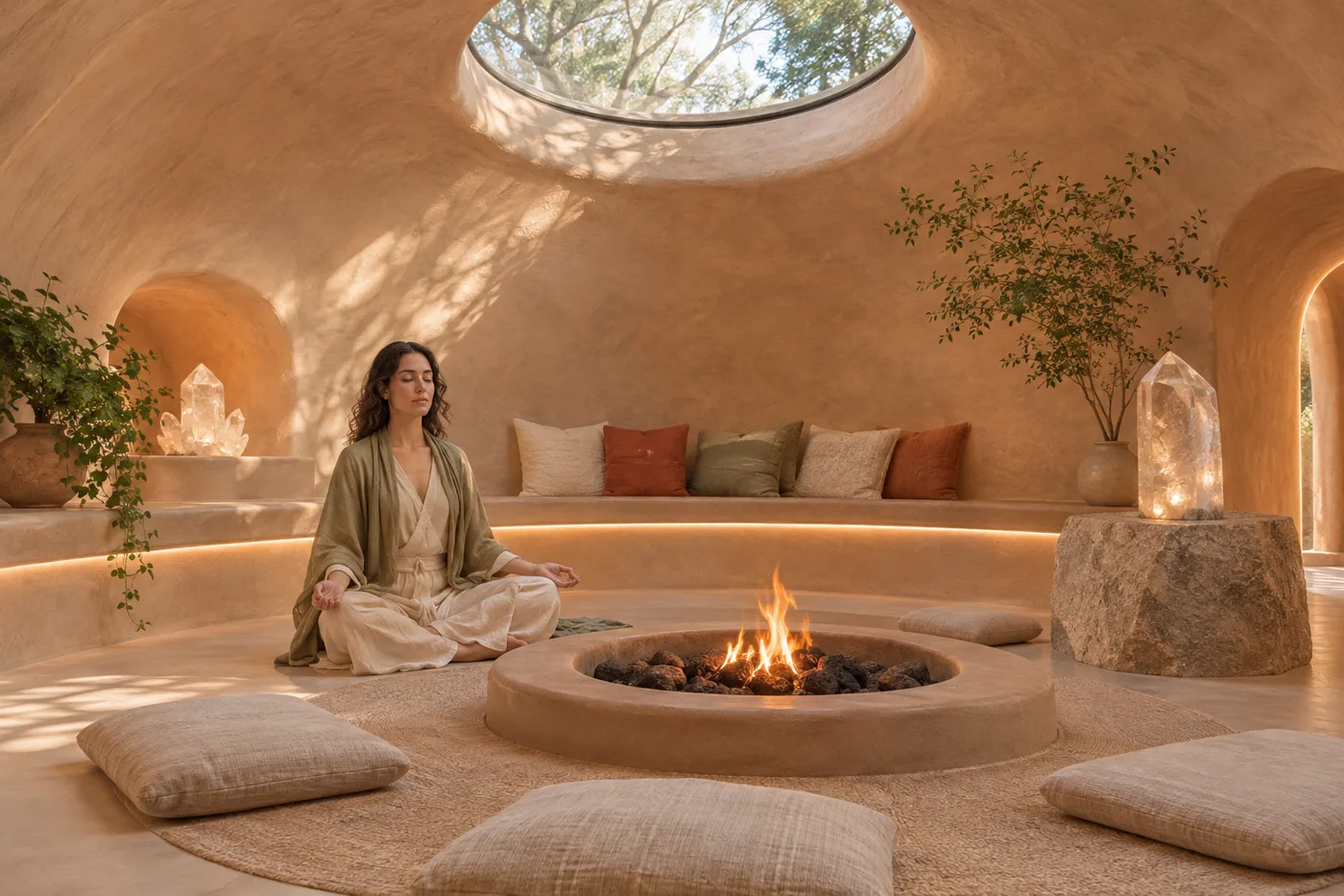
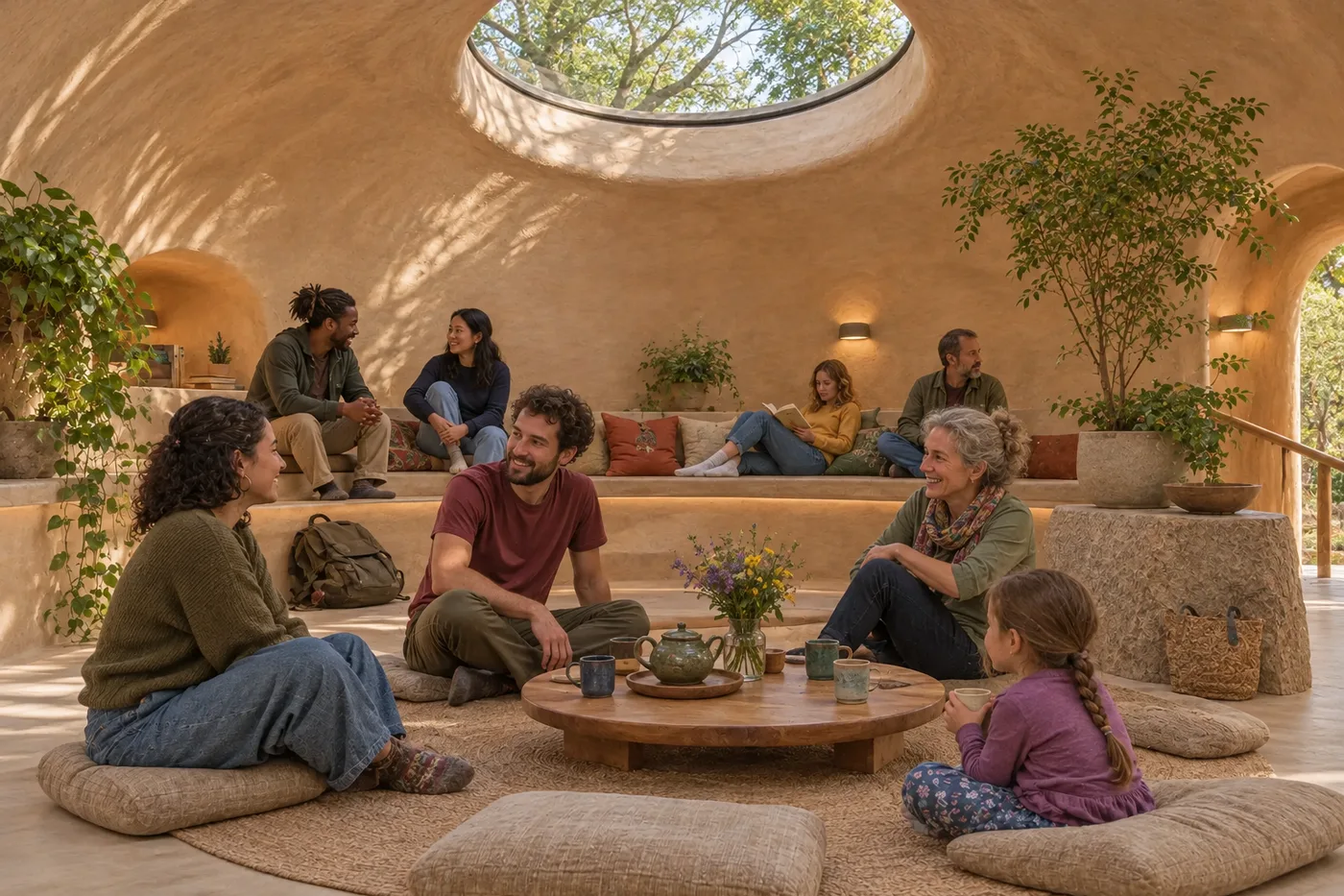
Realistic images, outdoor-only fire, occasional crystals, Light on the Land
- Re-edit 26 photos with a reality check: no indoor fire, one quartz point only,
  everyday clothing, real daylight, no glowing orbs or uplighting
- Add design/light-on-the-land doc: evidence, honest limits, ten commitments
- City page: Light on the Land section; balanced 6-card Beyond the box grid
- Update color, visual language rules and alt texts

diff --git a/website/src/pages/city.tsx b/website/src/pages/city.tsx
@@ -51,7 +51,7 @@ export default function City(): JSX.Element {
         <Feature
           reverse
           img="city-dome-cutaway"
-          alt="Inside a timber gridshell dome: terraced apartments, a garden atrium, tall quartz points on stone pedestals and a sunken fire lounge"
+          alt="Inside a timber gridshell dome: terraced apartments, a garden atrium and a sunken lounge with sofas around a low table"
           kicker="Neighborhood"
           title="Communosphere"
           tag="TRL 7–9"
@@ -61,18 +61,18 @@ export default function City(): JSX.Element {
         </Feature>
         <Feature
           img="city-temple"
-          alt="Circular timber temple with an oculus lighting a single tall quartz point on a round stone pedestal and a fire bowl"
+          alt="Circular timber temple with an oculus lighting a single quartz point on a stone pedestal and a shallow water basin, people seated on cushions"
           kicker="Inner ring"
           title="Temple & plaza"
           tag="TRL 9"
           specs={[['Use', 'Meditation, ceremony, gatherings'], ['Access', 'Open to all, no doctrine'], ['Build', 'Timber, rammed earth, stone'], ['Plaza', 'Markets, festivals, daily life']]}>
-          <p>A non-denominational temple for silence, meditation and community ceremonies, proportioned with sacred geometry, with a single upright quartz point on a stone pedestal under the oculus and a fire bowl for evening gatherings. Participation in any practice is always voluntary.</p>
+          <p>A non-denominational temple for silence, meditation and community ceremonies, proportioned with sacred geometry, with a single upright quartz point on a stone pedestal under the oculus and a shallow water basin at the center. Participation in any practice is always voluntary.</p>
           <p>The plaza beside it is the city's living room: morning markets, performances, seasonal festivals and the everyday crossing point of the whole community.</p>
         </Feature>
         <Feature
           reverse
           img="city-studios"
-          alt="Modern maker studio with a CNC router, 3D printer, woodworking benches and a quartz point on a timber stand"
+          alt="Modern maker studio with a CNC router, 3D printer, woodworking benches and a pottery corner"
           kicker="Middle ring"
           title="Studios & workshops"
           tag="TRL 9"
@@ -142,15 +142,26 @@ export default function City(): JSX.Element {
         <div style={{marginTop: '3rem'}} />
         <Cards items={[
           {title: 'Clay plaster everywhere', kicker: 'Healthy interiors', img: 'form-earth-dome', text: 'Holds indoor humidity steady and removes ozone. The cheapest health upgrade, and it works on curves and in existing homes.'},
-          {title: 'Local stone', kicker: 'Materials follow the place', text: 'Plinths, terrace walls, hearths and paths in the stone of each region: granite and schist in Portugal, sandstone in New Mexico, basalt on volcanic land. Lowest carbon when quarried nearby.'},
+          {title: 'Local stone', kicker: 'Materials follow the place', text: 'Plinths, terrace walls, benches and paths in the stone of each region: granite and schist in Portugal, sandstone in New Mexico, basalt on volcanic land. Lowest carbon when quarried nearby.'},
           {title: 'Thin shells', kicker: 'Canopies & floors', img: 'form-thin-shell', text: 'Arched shells carry load in compression, using over 70% less concrete and allowing earth or recycled mixes.'},
           {title: 'Curved shell, efficient core', kicker: 'Practical', text: 'Kitchens, baths and storage stay straight inside curved rooms, so standard fittings still work and costs stay down.'},
           {title: 'Bio-resonance as research', kicker: 'Frontier', text: 'We will compare matched curved and boxy rooms for sleep, stress and acoustics with university partners, and publish results either way.'},
+          {title: 'Light on the land', kicker: 'Nature first', to: '/docs/design/light-on-the-land', text: 'Compact building, more habitat after than before, our own sun and rain, and dark, bird-safe nights.'},
         ]} />
         <p style={{marginTop: '1.5rem'}}><Link to="/docs/design/organic-forms-and-materials">Read Beyond the Box in the library: methods, costs, evidence and trade-offs →</Link></p>
       </Section>
 
-      <Section alt id="language" eyebrow="Design language" title="Four rules shape every building.">
+      <Section id="light-on-the-land" alt eyebrow="Light on the land" title="Mostly wild land, measured every year." lead="Zero impact is not possible, but half a normal footprint is: ecovillages like Findhorn and Sieben Linden already live at about half their national averages. We build a compact core, run on our own sun and rain, protect the night and leave more nature than we found.">
+        <Cards items={[
+          {title: 'Build small', kicker: 'Land', text: 'A 20–30 acre core on a 100–500 acre site. At least half the land stays permanent habitat, with wildlife corridors kept open.'},
+          {title: 'More life after', kicker: 'Biodiversity', text: 'A baseline survey before design and at least 20% biodiversity net gain, monitored for 30 years.'},
+          {title: 'Own sun and rain', kicker: 'Energy & water', text: 'No fossil fuels, 105% of energy from on-site solar, and no net draw on groundwater. Greywater is cleaned in planted wetlands.'},
+          {title: 'Protect the night', kicker: 'Light & birds', text: 'Shielded, warm outdoor lights that never shine upward, and bird-safe patterned glass on every dome.'},
+        ]} />
+        <p style={{marginTop: '1.5rem'}}><Link to="/docs/design/light-on-the-land">Read Light on the Land: what is possible today, honest limits and ten commitments →</Link></p>
+      </Section>
+
+      <Section id="language" eyebrow="Design language" title="Four rules shape every building.">
         <Cards items={[
           {title: 'Sacred geometry', kicker: 'Proportion', text: 'Circles, spirals and the golden ratio set the plan, room proportions and facade rhythms, giving the city a coherent, calming order.'},
           {title: 'Biophilic design', kicker: 'Nature', text: 'Daylight, planting, natural materials and views to green in every space. Proven to lower stress and improve wellbeing.'},
@@ -159,7 +170,7 @@ export default function City(): JSX.Element {
         ]} />
       </Section>
 
-      <Section eyebrow="Go deeper" title="The city in the library.">
+      <Section alt eyebrow="Go deeper" title="The city in the library.">
         <DocLinks items={[
           {to: '/docs/design/architecture', tag: 'City', title: 'Architecture', text: 'Ring layout, building types and construction approach.'},
           {to: '/docs/concepts/communospheres', tag: 'City', title: 'Communospheres', text: 'Dome neighborhoods in detail.'},

diff --git a/website/src/pages/homes.tsx b/website/src/pages/homes.tsx
@@ -33,11 +33,11 @@ export default function Homes(): JSX.Element {
       <Section alt id="types" eyebrow="Home types" title="Choose the scale of private life you need.">
         <Feature
           img="home-tiny"
-          alt="Four curved-timber tiny homes with green roofs and large windows around a courtyard garden with a sunken fire circle and a vertical quartz point set on a stone base, a glass dome behind"
+          alt="Four curved-timber tiny homes with green roofs and large windows around a courtyard garden with stone seating and planted beds, a glass dome behind"
           kicker="Tiny home · 200–300 sf"
           title="Tiny home"
           tag="$500–700 / month">
-          <p>A self-contained curved-timber home with a sleeping niche, a compact kitchen and bath, big windows and a deck. Tiny homes are grouped in fours around a shared courtyard with planted beds, a sunken fire circle and a single quartz point on a stone base, so neighbors share outdoor space naturally.</p>
+          <p>A self-contained curved-timber home with a sleeping niche, a compact kitchen and bath, big windows and a deck. Tiny homes are grouped in fours around a shared courtyard with planted beds and stone seating, so neighbors share outdoor space naturally.</p>
           <ul>
             <li><strong>Best for:</strong> singles, artists, newcomers and contribution-based residents</li>
             <li><strong>Where:</strong> garden clusters on the outer ring, a short walk from a communosphere</li>
@@ -60,7 +60,7 @@ export default function Homes(): JSX.Element {
         </Feature>
         <Feature
           img="home-1br"
-          alt="Modern one-bedroom with a stone counter, a fireplace and glass walls onto a dome garden"
+          alt="Modern one-bedroom with a stone counter, built-in shelves and glass walls onto a dome garden"
           kicker="1-bedroom · 600–800 sf"
           title="One-bedroom"
           tag="$950–1,300 / month">
@@ -74,7 +74,7 @@ export default function Homes(): JSX.Element {
         <Feature
           reverse
           img="home-2br"
-          alt="Curved timber family homes with green roofs along a car-free lane with e-bikes and a fire circle, a spire and dome beyond"
+          alt="Curved timber family homes with green roofs along a car-free lane with e-bikes, cyclists and neighbors on benches, a spire and dome beyond"
           kicker="2-bedroom · 900–1,200 sf"
           title="Two-bedroom family home"
           tag="$1,300–1,700 / month">
@@ -91,7 +91,7 @@ export default function Homes(): JSX.Element {
       <Section id="earth" eyebrow="Beyond the box" title="Earth tiny homes: built from the ground they stand on." lead="An option for the tiny-home clusters: small curved homes of earthbag (superadobe) or 3D-printed local soil, finished in clay plaster. Lower cost, healthier air and a quiet, rounded shape.">
         <Feature
           img="form-superadobe"
-          alt="A cluster of small superadobe earth domes with sand-colored clay plaster, round windows and planted roofs around a courtyard garden with a sunken fire circle"
+          alt="A cluster of small superadobe earth domes with sand-colored clay plaster, round windows and planted roofs around a courtyard garden with a small outdoor fire pit"
           kicker="Earth option · tiny home"
           title="Superadobe and printed-earth clusters"
           tag="Dry and mild climates first">
@@ -104,7 +104,7 @@ export default function Homes(): JSX.Element {
         <Feature
           reverse
           img="form-earth-dome"
-          alt="Inside an earth dome: smooth clay-plastered walls, a skylight oculus, a built-in bench and a central fire bowl"
+          alt="Inside an earth dome: smooth clay-plastered walls, a skylight oculus, a built-in bench and a low wooden tea table where people sit together"
           kicker="Inside · build together"
           title="Clay interiors, built with residents"
           tag="Pilot in Stage 4">

diff --git a/website/src/pages/journey.tsx b/website/src/pages/journey.tsx
@@ -26,7 +26,7 @@ export default function Journey(): JSX.Element {
         <Feature
           id="awakening"
           img="journey-awakening"
-          alt="A person in a cotton knit reflecting by a city apartment window at dawn, a small quartz point on a stand and tea beside her"
+          alt="A person in a cotton knit reflecting by a city apartment window at dawn, a cup of tea and a notebook beside her"
           kicker="Movement 1 · Now – 2027 · Stages 1–3"
           title="Awakening"
           tag="From distraction to attention"
@@ -38,7 +38,7 @@ export default function Journey(): JSX.Element {
           reverse
           id="gathering"
           img="journey-gathering"
-          alt="A circle of people in linen and cotton around a stone fire bowl at a modern retreat pavilion"
+          alt="A circle of people in everyday clothes around an outdoor stone fire pit beside a modern retreat pavilion at dusk"
           kicker="Movement 2 · 2027 – 2028 · Stage 4"
           title="Gathering"
           tag="From me to we"
@@ -61,7 +61,7 @@ export default function Journey(): JSX.Element {
           reverse
           id="flourishing"
           img="journey-flourishing"
-          alt="A shared dinner at long timber tables inside a glass dome, a fire hearth and a quartz point on a stone pedestal nearby"
+          alt="A shared dinner at long timber tables inside a glass dome under warm pendant lamps"
           kicker="Movement 4 · 2032+ · Stage 6"
           title="Flourishing"
           tag="From survival to contribution"
@@ -72,7 +72,7 @@ export default function Journey(): JSX.Element {
         <Feature
           id="radiating"
           img="journey-radiating"
-          alt="A mature modern organic town of domes and green roofs with a glowing spire at sunset"
+          alt="A mature modern organic town of domes and green roofs with a slender spire at sunset"
           kicker="Movement 5 · 2035+ · Phases 2–3"
           title="Radiating"
           tag="From one place to a pattern"

diff --git a/website/src/pages/index.tsx b/website/src/pages/index.tsx
@@ -149,7 +149,7 @@ export default function Home(): JSX.Element {
 
       {/* IMAGE BAND */}
       <section className="band">
-        <img src={img('dome-interior')} alt="Sunlight streams through a timber gridshell dome over trees, a reflecting pool, a single vertical quartz point on a stone pedestal and a sunken fire circle where people gather" width="1400" height="788" loading="lazy" />
+        <img src={img('dome-interior')} alt="Sunlight streams through a timber gridshell dome over trees, a sunken seating circle around a stone water basin where people gather" width="1400" height="788" loading="lazy" />
         <div className="band-in wrap">
           <blockquote>Ambitious in form.<br />Conservative in engineering.</blockquote>
           <p>Every structure uses materials already standing elsewhere — from Norway's 85.4 m Mjøstårnet timber tower to timber gridshells, earth domes and 3D-printed homes of local soil.</p>
@@ -219,7 +219,7 @@ export default function Home(): JSX.Element {
       <section className="living" id="living">
         <div className="wrap living-grid">
           <figure className="living-art">
-            <img src={img('living')} alt="Residents in linen walk a garden path between curved timber homes with green roofs, a fire circle and a glass dome at golden hour" width="1400" height="933" loading="lazy" />
+            <img src={img('living')} alt="Residents in everyday clothes walk a garden path between curved timber homes with green roofs and a glass dome in morning light" width="1400" height="933" loading="lazy" />
           </figure>
           <div>
             <p className="eyebrow">05 — Living</p>

diff --git a/website/src/components/Home/initHome.ts b/website/src/components/Home/initHome.ts
@@ -201,6 +201,7 @@ const DOCS = [
   ['concepts/energy-systems', 'Concepts', 'Energy systems', 'Solar microgrid plus the subtle-energy research track.'],
   ['design/architecture', 'Design', 'Architecture', 'Spire, domes, rings — archetype vs. Earth build.'],
   ['design/organic-forms-and-materials', 'Design', 'Beyond the box', 'Curved forms and healthy, low-cost materials, with costs.'],
+  ['design/light-on-the-land', 'Design', 'Light on the land', 'Minimal impact on nature: what is possible today, ten commitments.'],
   ['design/layout-diagrams', 'Design', 'Layout & diagrams', 'City plan, cross-sections and energy flows.'],
   ['design/visual-language', 'Design', 'Visual language', 'Symbols, forms and the look of the city.'],
   ['design/color-and-light', 'Design', 'Color & light', 'How light shapes every space and ritual.'],

diff --git a/website/src/components/Site/site.css b/website/src/components/Site/site.css
@@ -42,6 +42,7 @@
 
 /* cards */
 .lc-page .pg-cards{display:grid;grid-template-columns:repeat(auto-fit,minmax(260px,1fr));gap:var(--space-6)}
+.lc-page .pg-cards:has(> :nth-child(6):last-child){grid-template-columns:repeat(auto-fit,minmax(300px,1fr))}
 .lc-page .pg-card{background:var(--card);border:1px solid var(--line);border-radius:var(--r-lg);overflow:hidden;display:flex;flex-direction:column;transition:transform .4s var(--ease),box-shadow .4s var(--ease)}
 .lc-page .pg-card:hover{transform:translateY(-4px);box-shadow:0 24px 50px -30px rgba(29,26,21,.45)}
 .lc-page .pg-card img{width:100%;aspect-ratio:3/2;object-fit:cover}

diff --git a/website/sidebars.ts b/website/sidebars.ts
@@ -28,6 +28,7 @@ const sidebars: SidebarsConfig = {
       items: [
         'design/architecture',
         'design/organic-forms-and-materials',
+        'design/light-on-the-land',
         'concepts/communospheres',
         'concepts/sacred-geometry',
         'design/visual-language',

diff --git a/website/docs/design/light-on-the-land.md b/website/docs/design/light-on-the-land.md
@@ -1,0 +1,86 @@
+---
+id: light-on-the-land
+title: "Light on the Land: Minimal Impact on Nature"
+sidebar_label: Light on the land
+description: How Light City can keep its impact on nature as low as today's proven technology allows, what existing ecovillages and Living Buildings have achieved, the honest limits, and the ten commitments we will measure and publish.
+---
+
+# Light on the Land: Minimal Impact on Nature
+
+A new settlement always changes the land it sits on. Zero impact is not possible: we will clear some ground, use some materials and bring people who eat, travel and buy things. What *is* possible today is a city that takes much less than a normal town, gives some of it back, and proves it with published measurements. This page sets out what proven technology can do, what real projects have already achieved, where the hard limits are, and the commitments Light City will hold itself to.
+
+> **Our rule: the land stays mostly wild.** Build small and compact, power and water ourselves, protect the night, and leave the site with more life on it than we found.
+
+---
+
+## Is it really possible? What has already been done
+
+These are not concepts. Each one has been built, measured and independently reported.
+
+| Project | What it achieved | Source |
+|---|---|---|
+| **Findhorn Ecovillage**, Scotland | Residents' ecological footprint of 2.71 global hectares per person, about half the UK average of 5.4, the lowest then measured for any community in the industrialised world | [Findhorn footprint report, 2006](https://base.socioeco.org/docs/ff_20footprint.pdf) |
+| **Sieben Linden Ecovillage**, Germany | 5.0 t CO₂ per person per year, 52% below the German average of 10.5 t; housing about 0.3 t versus 2.8 t | [Sieben Linden, 2026](https://siebenlinden.org/de/oekologischer-fussabdruck/) |
+| **Sieben Linden straw-bale homes** | Heating use cut by 90% and per-person CO₂ by 72% versus the German average | [World Habitat](https://world-habitat.org/awards/winners/straw-bale-housing-in-the-sieben-linden-ecovillage/) |
+| **Kendeda Building**, Georgia Tech, USA | Certified Living Building: net-positive energy and water over a full year, rainwater for drinking, greywater treated in a constructed wetland, composting toilets | [Georgia Tech](https://livingbuilding.gatech.edu/) |
+| **Agrivoltaic farms**, USA | Sheep graze under solar panels and gain weight like open-pasture sheep; pollinator plantings at solar sites drew about four times as many pollinator visits | [NLR](https://www.nlr.gov/solar/market-research-analysis/agrivoltaics), [USDA Climate Hubs](https://www.climatehubs.usda.gov/hubs/northwest/topic/agrivoltaics-pairing-solar-power-and-agriculture-northwest) |
+| **England's biodiversity law** | Since February 2024, most new developments must leave at least 10% more habitat value than before, measured with a statutory metric and maintained for 30 years | [GOV.UK](https://www.gov.uk/guidance/understanding-biodiversity-net-gain) |
+
+**What this tells us.** A community of a few hundred people, living in well-insulated homes, eating mostly local and plant-forward food and sharing cars and tools, can run at roughly half a normal footprint with technology that exists now. Buildings can produce more energy and water than they use. New development can leave more nature behind, not less.
+
+**The honest part.** Even Sieben Linden says its 5 tonnes per person is still about five times the planet's fair share ([Sieben Linden](https://siebenlinden.org/de/oekologischer-fussabdruck/)). Findhorn's headline figure left out guests' flights to its courses ([Findhorn footprint report](https://base.socioeco.org/docs/ff_20footprint.pdf)). Lifestyle and travel matter as much as buildings, and we will count both.
+
+---
+
+## Where a Light City has real impact, and what to do about it
+
+| Impact | Why it matters | What we do | Readiness |
+|---|---|---|---|
+| **Land taken** | Every building and road replaces habitat | Compact core of 20–30 acres for Phase 1 on a 100–500 acre site; build on already farmed or degraded ground, never old forest or wetland; keep at least half the site as permanent habitat | **Proven** (planning choice) |
+| **Biodiversity** | Fragmented, sprayed land loses species | Baseline ecological survey before design; wildlife corridors kept open between habitat patches; native planting; no pesticides; aim for at least 20% biodiversity net gain using a recognised metric | **Proven** method, needs ecologists |
+| **Energy** | Fossil fuel is the largest climate impact | All-electric, no combustion fuels; rooftop solar plus agrivoltaic fields with grazing and pollinator meadows; batteries; aim for 105% or more of annual use, the Living Building threshold | **Proven** |
+| **Water** | Arid sites can drain aquifers | Rainwater harvesting, low-flow fixtures, greywater reuse through constructed wetlands, composting or vacuum toilets; no net drawdown of groundwater | **Proven**, but permits for drinking rainwater vary by country |
+| **Materials and carbon** | Concrete, steel and glass carry heavy embodied carbon | Local stone, earth, timber and bamboo; minimal concrete; measure embodied carbon for every building and publish it (see [Beyond the Box](/docs/design/organic-forms-and-materials)) | **Proven** to Emerging |
+| **Night light** | Artificial light at night disrupts birds, bats, insects and sleep | Outdoor lights shielded and pointed down, warm color (3000 K or warmer), dimmed or off when not needed, no uplighting of the spire or domes; work toward International Dark Sky Community status | **Proven** ([DarkSky](https://darksky.org/what-we-do/international-dark-sky-places/apply/)) |
+| **Glass and birds** | Glass kills up to a billion birds a year in North America, mostly on low buildings | Bird-safe fritted or UV-patterned glass on all domes and large windows, following the 2 by 4 inch spacing rule; overhangs and screens | **Proven** ([USFWS](https://www.fws.gov/story/federal-agencies-treating-glass-reduce-bird-collisions)) |
+| **Cars and roads** | Roads split habitat and bring noise and runoff | Car-free core; shared electric vehicles parked at the edge; walking and cycling paths of permeable surfaces | **Proven** |
+| **Waste** | Landfill and sewage leave the site | Composting, repair and sharing culture, construction waste sorted and reused; sewage treated on site as a resource | **Proven** |
+| **Construction itself** | Grading, compaction and erosion damage soil for decades | Save and replace topsoil; minimal grading; fence off trees and streams during works; restore disturbed areas in the next planting season | **Proven** |
+
+---
+
+## What this means for the design and the images
+
+Some of our earlier imagery showed things that would *increase* impact, and we are correcting them:
+
+- **Glass domes.** Large glass areas risk bird strikes, overheating and high energy use. Domes need bird-safe patterned glass, shading, operable vents and a limited glass-to-solid ratio. Solid green-roofed sections are as important as glazed ones.
+- **Night lighting.** A city that glows at night harms wildlife and hides the stars. The "light" in Light City is inside: daylight, warm rooms and people. Outdoors after dark it should look like a quiet village, not a stage set.
+- **Fire.** Open fire indoors is a health and fire-code problem and burns fuel. Indoor gathering rooms use daylight, warm lamps and water features. Fire stays outdoors, small and occasional.
+- **Landscape.** Most of what you see around the buildings should be wild meadow, forest, farms and water, not lawns and paving.
+
+---
+
+## Ten commitments we will measure and publish
+
+1. **Build small.** Developed area stays at or under 15% of the site; at least 50% is placed under a permanent conservation agreement.
+2. **More life after than before.** At least 20% biodiversity net gain against a pre-construction baseline, monitored for 30 years.
+3. **Net-positive energy.** 105% or more of annual energy from on-site renewables, with no fossil combustion.
+4. **Live within the rain.** No net groundwater drawdown; water reused at least once before it returns to the land.
+5. **Count the carbon in buildings.** Embodied carbon measured and published for every building, with a falling target each phase.
+6. **Protect the night.** DarkSky-compliant outdoor lighting from day one.
+7. **Safe glass.** Bird-safe glass on every dome and large window.
+8. **A car-free core.** Shared electric vehicles at the edge only.
+9. **Half the footprint.** Residents' average carbon footprint at or below half the national average of the host country by the third year of occupancy, including travel.
+10. **Show the numbers.** An annual, independently reviewed impact report, published whether the results are good or bad.
+
+These targets will be tested during Stage 2 (Design) against the chosen site's climate, ecology and laws, and tightened where possible.
+
+---
+
+## Related
+
+- [Beyond the Box](/docs/design/organic-forms-and-materials): materials, stone and building methods
+- [Site Locations](/docs/project/site-locations): candidate regions and their water and climate
+- [Energy systems](/docs/concepts/energy-systems): the solar microgrid
+- [Color and light](/docs/design/color-and-light): lighting principles
+- [Open Questions](/docs/research/open-questions): what we still need to learn

diff --git a/website/docs/design/color-and-light.md b/website/docs/design/color-and-light.md
@@ -2,9 +2,9 @@
 
 *Palette and lighting rules for the website, diagrams, photos and the built city*
 
-![Dome interior at dusk: warm LED light, clay walls, a fire bowl and a single quartz point on a stone pedestal](/img/home/dome-interior.webp)
+![Dome interior at dusk: warm LED light, clay walls, a stone water basin and planting](/img/home/dome-interior.webp)
 
-*Modern Organic light: warm integrated LED, daylight through glass, clay and timber surfaces, and a place for fire.*
+*Modern Organic light: daylight through glass, warm shielded lamps, clay and timber surfaces.*
 
 ## Palette
 
@@ -40,11 +40,12 @@ Use light tints (about 15–30% opacity) of the nature accents for panel fills. 
 
 - **Daylight first.** Domes and studios are planned for daylight through glazing and an oculus; artificial light fills in.
 - **Warm and circadian.** Evening light is warm (2,200–3,000 K) and dimmable; daytime light can be cooler. Integrated LED lines sit in timber ribs and coves, not bare fixtures.
-- **Fire stays.** Fire bowls, hearths and sculptural fire features are part of shared spaces, indoors and out, with proper ventilation.
+- **Fire stays outdoors.** No open fire indoors: it is a health, fire-code and fuel problem. Indoor gathering spaces use daylight, warm lamps and water. Outdoor fire pits appear occasionally, small and modest.
 - **Crystal as accent.** Quartz and glass catch and split light in small doses: a centerpiece, a window, a lamp. Never a whole wall of crystal.
-- **Crystals are placed, not scattered.** Show natural quartz as one, two or three vertical points, set with intention into the ground on a stone or earth base, or on a simple pedestal or stand. No clusters shooting in every direction and no glowing, game-style crystals.
+- **Crystals are occasional.** Most images show none. Where one appears (the temple, a home shelf), show natural quartz as one, two or three vertical points, set with intention into the ground on a stone or earth base, or on a simple pedestal or stand. No clusters shooting in every direction and no glowing, game-style crystals.
 - **Dark skies.** Exterior light points down, is shielded and is warm, so stars stay visible.
-- **Spire light.** The spire crown can carry programmable light for gatherings; it stays off or low on ordinary nights.
+- **Spire light.** The spire crown can carry programmable light for gatherings; it stays off or low on ordinary nights and never shines upward.
+- **Protect the night.** Outdoor lights are shielded, aimed down, 3000 K or warmer and dimmed when not needed, following [DarkSky](https://darksky.org/what-we-do/international-dark-sky-places/apply/) guidance. No glowing ground orbs, rows of candles or uplit domes. See [Light on the land](/docs/design/light-on-the-land).
 
 ## Usage guidance
 

diff --git a/website/docs/design/visual-language.md b/website/docs/design/visual-language.md
@@ -22,11 +22,12 @@ This guide keeps every Light City image, diagram and page consistent and readabl
 
 Use this style note at the end of every image prompt:
 
-> Curved glulam and CLT, timber gridshells, glass, living walls, rammed earth and clay plaster, warm integrated LED, quartz crystal accents (one to three vertical points on a pedestal or set into the ground, never game-style clusters), local stone, sculptural fire features. People in linen, cotton and raw silk in off-white, sand, sage and terracotta. Realistic documentary photo with a quiet sense of wonder. No text or logos. Avoid medieval, rustic cabins and fantasy.
+> Curved glulam and CLT, timber gridshells, glass, living walls, rammed earth and clay plaster, warm shielded lighting, local stone, and only occasionally a single vertical quartz point on a pedestal. People in ordinary, varied everyday clothing of many colors. Mixed daylight and weather, not always sunset. Realistic documentary photo of a place that could be built today. No text or logos. Avoid medieval, rustic cabins and fantasy.
 
 - **Scale.** Domes 30–45 m across, 3–5 levels; the spire is slender, not a skyscraper.
 - **People.** Diverse ages and backgrounds, doing ordinary things: cooking, working, building, resting.
 - **Technology.** Visible but calm: solar glazing, batteries in a timber room, sensors that look like furniture.
+- **Reality check.** Before an image goes in, ask: could this be photographed in a real eco-village next year? No open fire indoors, no glowing ground lights or rows of candles, no uplit domes, handrails at every drop, bird-safe patterned glass on large glazing, plants at a believable size, wild land around the buildings rather than lawns. Crystals are occasional, at most one point in a scene, and most images have none.
 - **Formats.** 16:9 for heroes, 4:3 for cards, 1:1 for tiles. Export as WebP or JPG at about 1,400–2,000 px wide.
 
 ![Earth dome and printed-earth homes](/img/home/form-earth-dome.webp)

diff --git a/website/docs/design/organic-forms-and-materials.md b/website/docs/design/organic-forms-and-materials.md
@@ -72,7 +72,7 @@ Methods ordered from cheapest and simplest to most engineered. Costs are indicat
 
 **Superadobe (earthbag).** Long bags filled with moist earth are coiled into domes and tied with barbed wire. Nader Khalili's Cal-Earth developed the method; bag rolls cost $445–1,295 ([Cal-Earth](https://calearth.org/pages/superadobe-bags)), and UN refugee shelters have been built from about $625 ([WIPO](https://www.wipo.int/ar/web/ip-advantage/w/stories/the-poetry-of-architecture)). It is the most accessible way to build a curved room, and work parties can build it together.
 
-![Earth dome meditation pod with clay plaster, hearth and oculus](/img/home/form-earth-dome.webp)
+![Earth dome room with clay plaster, an oculus and a low tea table](/img/home/form-earth-dome.webp)
 
 **3D-printed earth.** TECLA in Italy (WASP with Mario Cucinella Architects) printed two linked raw-earth domes in about 200 hours from 60 m³ of local soil, with average power under 6 kW ([WASP](https://www.3dwasp.com/en/3d-printed-house-tecla/)). An earlier WASP print used about €900 of wall material ([Faircompanies](https://faircompanies.com/videos/wasp-3d-prints-round-eco-homes-from-any-local-raw-earth/)). Durability in wet or freezing climates is not yet proven, so this belongs in dry, mild sites first.
 
